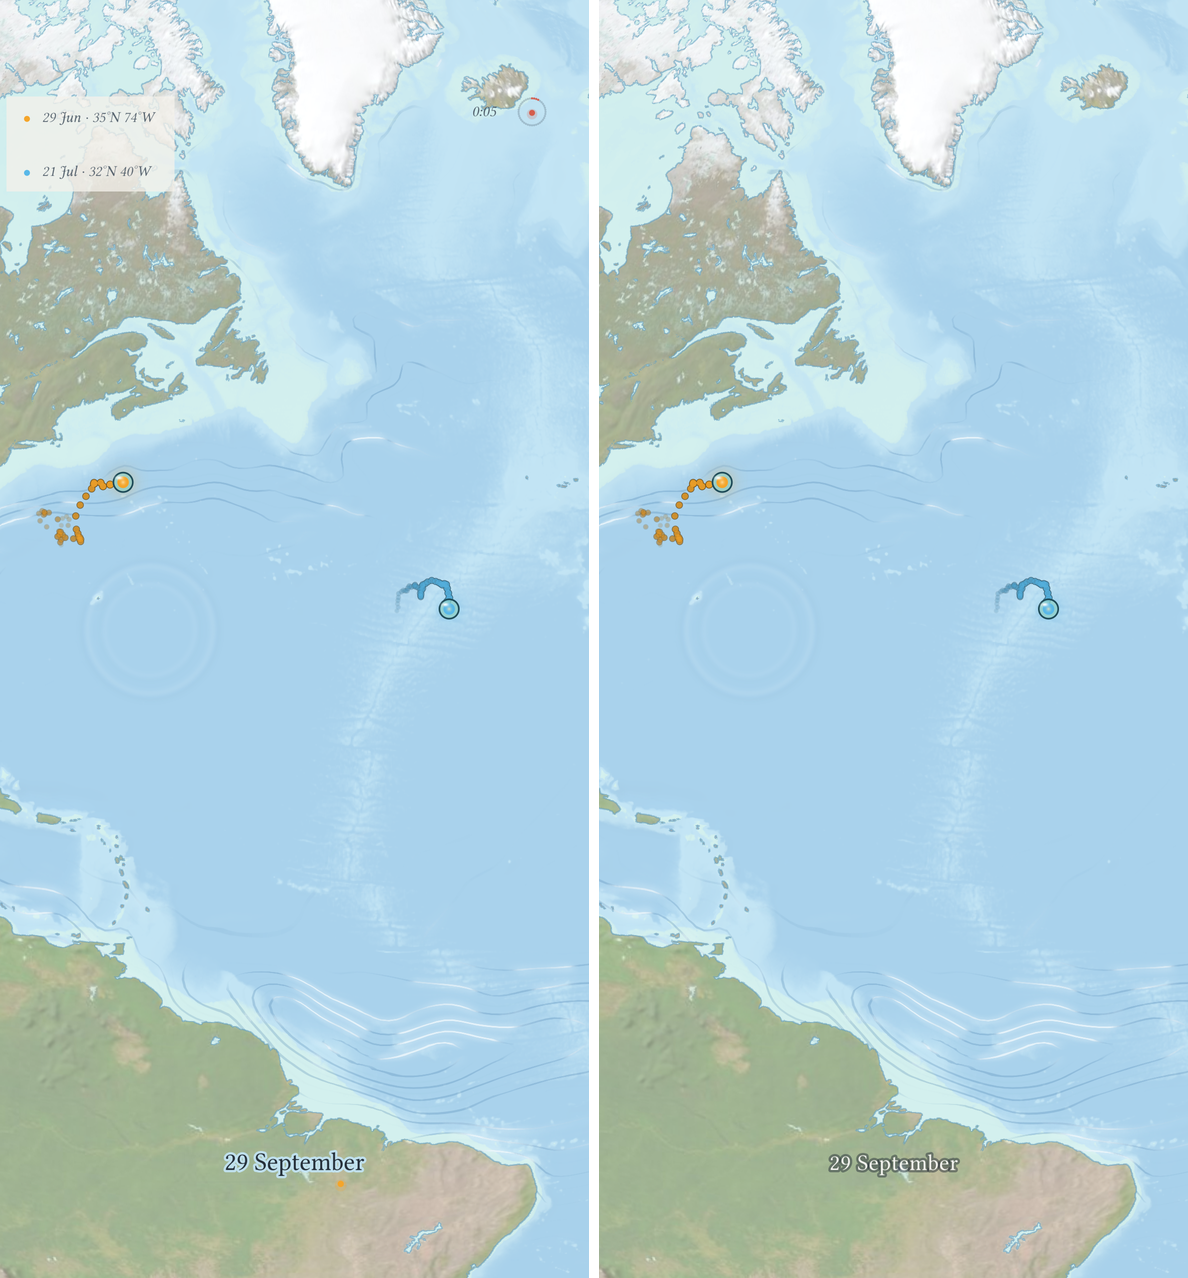
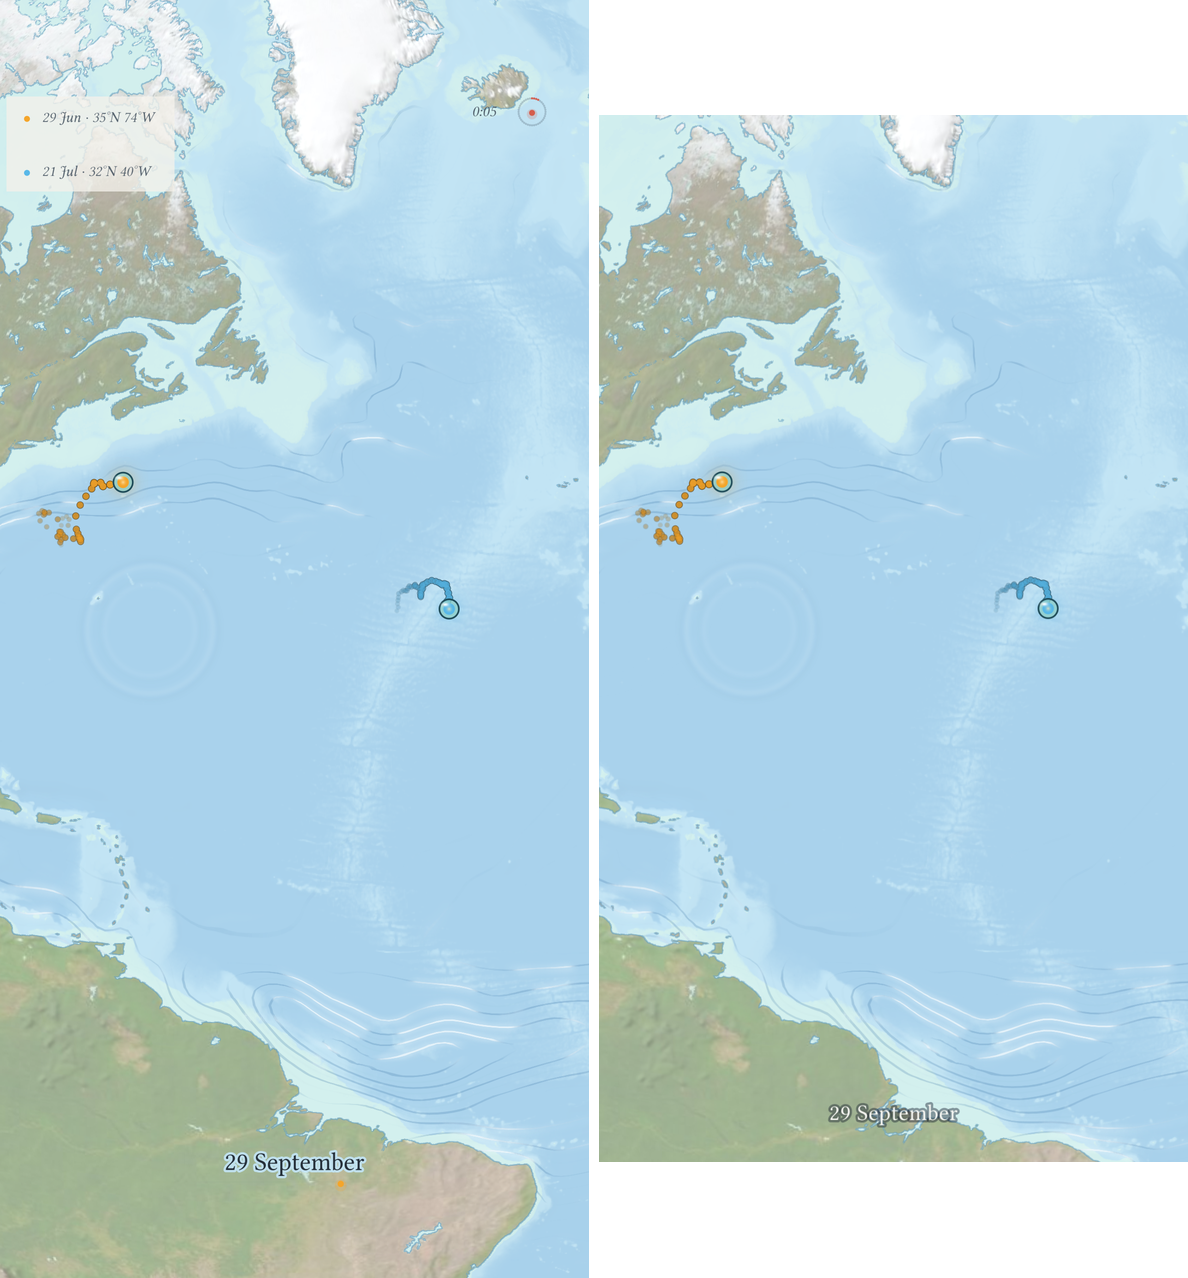
Adrift R9 look: the clip's caption inside its 9:16 window [skip ci]
Merged adrift's 9:16 clip; the exported date caption now sits within the window the app crops (as
large as the screen allows, centred on the globe), 28 points above its foot at most. Study refreshed.
Painting-company row 199.

Claude-Session: https://claude.ai/code/session_01BAtskA4ow53cTjABorJ2xR

diff --git a/adrift/crates/adrift-core/src/look/words.rs b/adrift/crates/adrift-core/src/look/words.rs
@@ -444,12 +444,16 @@ impl Words {
 
     /// The words of an exported frame (R9): the clip is the sea and its lamps, so the chrome stays out
     /// (the panel, the date's band with its rule and marker, the credits, the recording's mark) and only
-    /// the date is kept, a quiet caption at the foot where the date stands live (time passing is the
+    /// the date is kept, a quiet caption at the foot where the date stands live (inside the clip's 9:16 window) (time passing is the
     /// clip's story), 15 points, pale on a soft dark halo as a subtitle is. `date_bounds` keeps the
     /// live screen's (nothing is touched in a clip).
     pub fn prepare_caption(&mut self, gpu: &Gpu, date: &str, height: f32, width: f32, reading: f32, disc: [f32; 3], night: bool, labels: &[GlyphInstance]) {
         let under = disc[1] + disc[2] + 40.0 * reading;
-        let foot = under.min(height - 72.0 * reading);
+        // inside the clip's 9:16 window (the app's `clip_window`: as large as the screen allows,
+        // centred on the globe vertically, clamped to the screen), 28 points above its foot at most
+        let wh = if height / width >= 16.0 / 9.0 { width * 16.0 / 9.0 } else { height };
+        let top = (disc[1] - wh / 2.0).clamp(0.0, (height - wh).max(0.0));
+        let foot = under.min(height - 72.0 * reading).min(top + wh - 28.0 * reading);
         // (as a film's subtitle: pale ink on a soft dark halo, which reads on sea, land and page alike;
         // a halo of the sea's tone lay on the land as a sticker)
         // below the globe, on the page, the page's own soft ink on a halo of the page

diff --git a/adrift/crates/adrift-core/src/look/README.md b/adrift/crates/adrift-core/src/look/README.md
@@ -153,5 +153,5 @@ and `look_state()`:
   clockwise toward the take's longest (`studio::TAKE_MAX`), the seconds beside it in small italic.
   Never in a clip.
 - Studies: `studies/r9-live-recording-vs-clip-phone-half.png` (the live screen at the take's end, and
-  the clip's last frame), `studies/r9-record-control-idle-recording-phone.png`; the plan is
+  the clip's last frame, 9:16, its caption inside the window), `studies/r9-record-control-idle-recording-phone.png`; the plan is
   `adrift-check/plans/take-and-export.json`.
